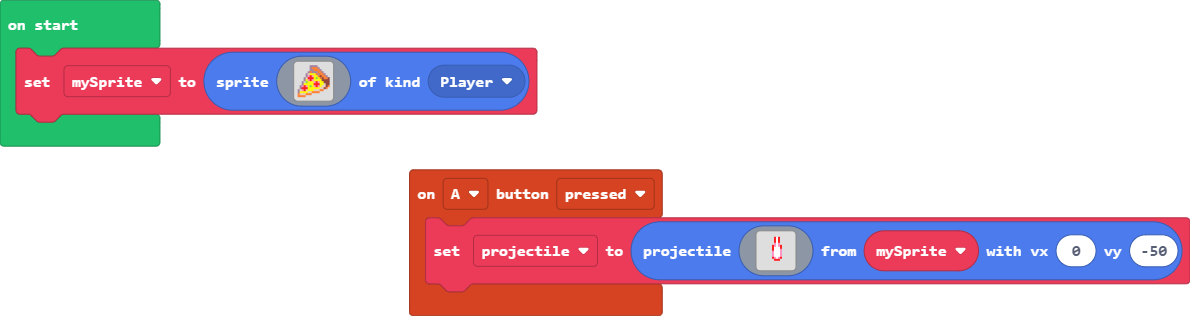
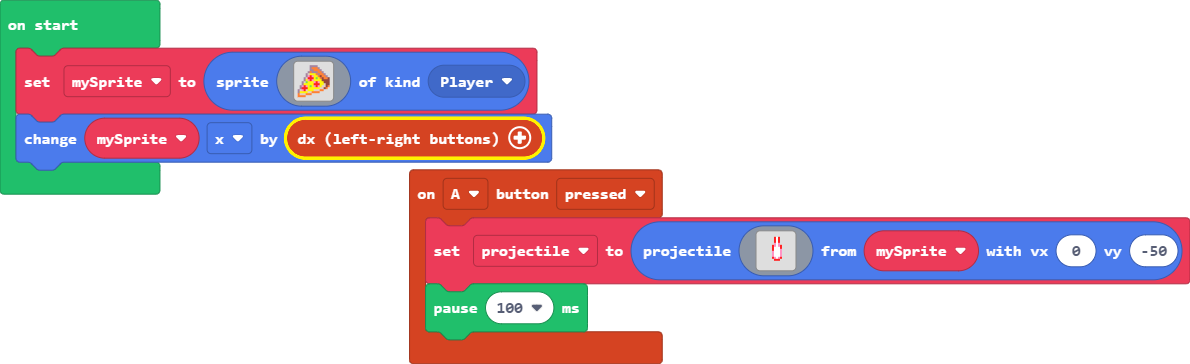
Added cursor movement

Changed region(s): [[0.0, 0.057, 1.0, 0.9399]]

diff --git a/main.ts b/main.ts
@@ -17,6 +17,7 @@ controller.A.onEvent(ControllerButtonEvent.Pressed, function () {
         . . . . . . . . . . . . . . . . 
         . . . . . . . . . . . . . . . . 
         `, mySprite, 0, -50)
+    pause(100)
 })
 let projectile: Sprite = null
 let mySprite: Sprite = null
@@ -38,3 +39,4 @@ mySprite = sprites.create(img`
     4 d d d 4 4 4 . . . . . . . . . 
     4 4 4 4 . . . . . . . . . . . . 
     `, SpriteKind.Player)
+mySprite.x += controller.dx()
